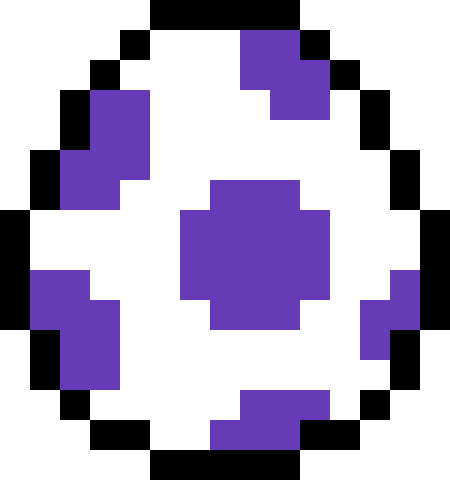
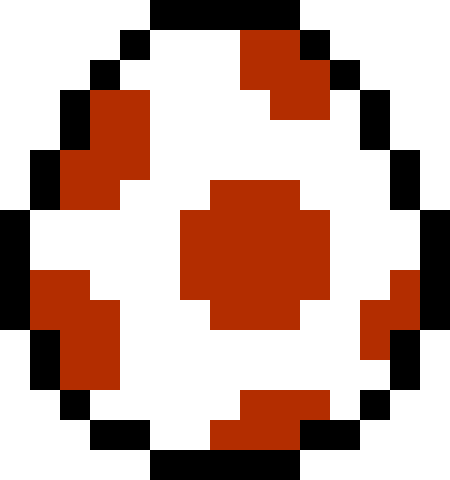
recoloured egg bois

diff --git a/components/RegisterPetComponent.js b/components/RegisterPetComponent.js
@@ -31,7 +31,8 @@ const RegisterPetComponent = (props) => {
                 <View>
                     <Image 
                         style={styles.image} 
-                        source={require('../assets/images/boi1_egg.png')} 
+                        source={require('../assets/images/boi1_egg.png')}
+                        resizeMode='contain'
                     />
                 </View>
             </View>
